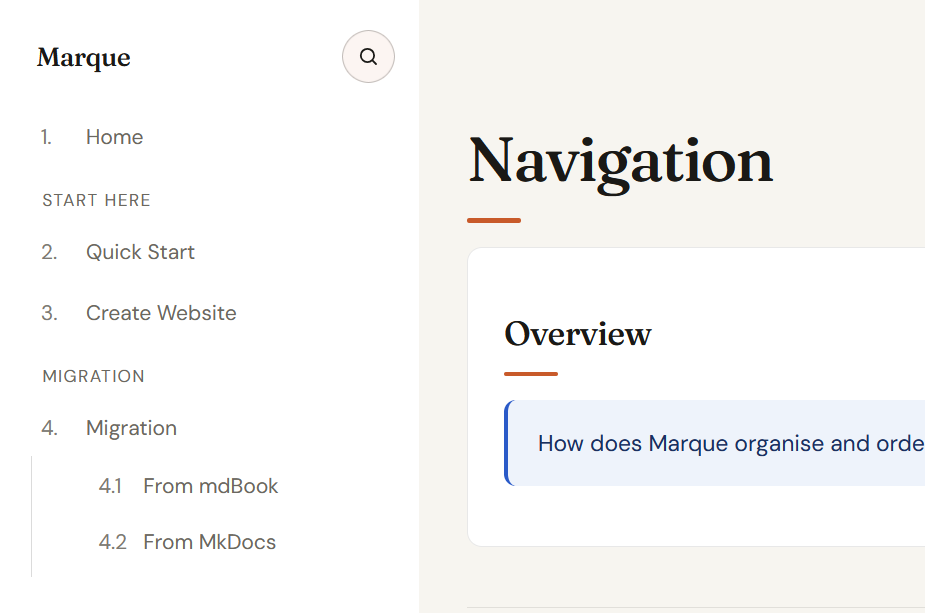
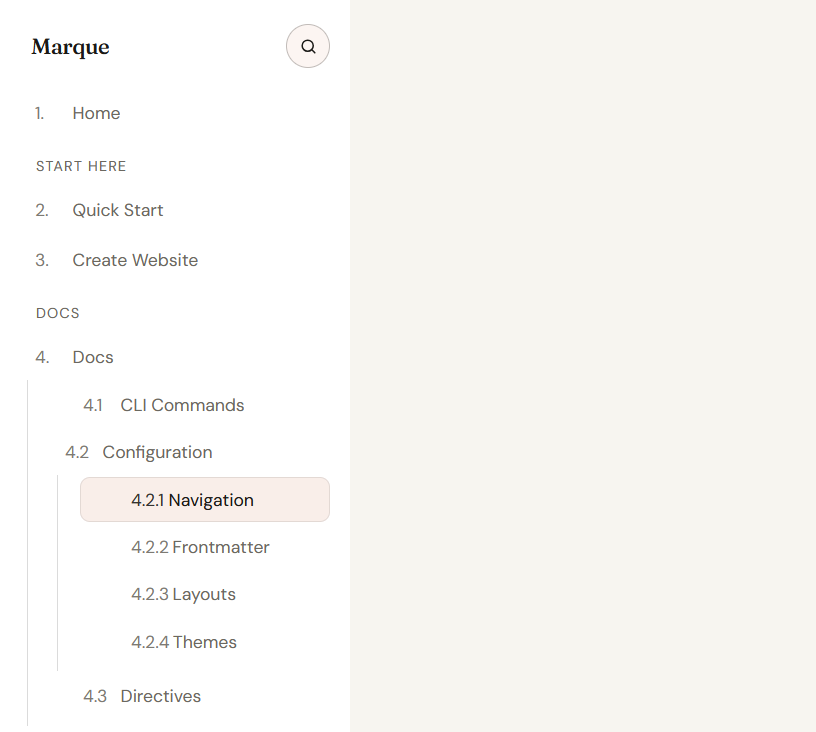
Enhance navigation and documentation: update navigation structure, add tables page, and improve layout guidance

diff --git a/src/builder.js b/src/builder.js
@@ -1250,7 +1250,7 @@ function renderSidebarLinkTrees(nodes, current, topCounter, depth = 0, parentNum
     const childHtml = renderSidebarLinkTrees(node.children, current, topCounter, depth + 1, number);
     const childActive = node.children.some(child => isSidebarNodeActive(child, current));
     const groupActive = (isActive || childActive) ? ' active' : '';
-    parts.push(`<div class="mq-nav-group mq-nav-summary-group${groupActive}"><a class="mq-nav-group-trigger mq-nav-group-trigger-link mq-nav-numbered-link${activeClass}" href="${hrefToSitePath(item.href)}">${numSpan}${escapeHtml(item.label)}</a><div class="mq-nav-submenu">${childHtml}</div></div>`);
+    parts.push(`<div class="mq-nav-group mq-nav-summary-group${groupActive}"><a class="mq-nav-group-trigger mq-nav-group-trigger-link mq-nav-level-${depth} mq-nav-numbered-link${activeClass}" style="--mq-nav-level:${depth};" href="${hrefToSitePath(item.href)}">${numSpan}${escapeHtml(item.label)}</a><div class="mq-nav-submenu">${childHtml}</div></div>`);
   }
 
   return parts.join('');

diff --git a/src/renderer.js b/src/renderer.js
@@ -180,7 +180,7 @@ function readTokenText(value) {
 
 function highlightCode(source, lang) {
   const code = String(source || '');
-  const language = String(lang || '').toLowerCase();
+  const language = resolveHighlightLanguage(lang);
   if (!language || language === 'text') return escapeHtml(code);
 
   if (!hljs.getLanguage(language)) return escapeHtml(code);
@@ -190,6 +190,13 @@ function highlightCode(source, lang) {
   } catch (_) {
     return escapeHtml(code);
   }
+}
+
+function resolveHighlightLanguage(lang) {
+  const raw = String(lang || '').trim().toLowerCase();
+  if (!raw) return 'text';
+  if (raw === 'mq' || raw.endsWith('.mq')) return 'markdown';
+  return raw;
 }
 
 function parseButtonAttrs(raw) {
